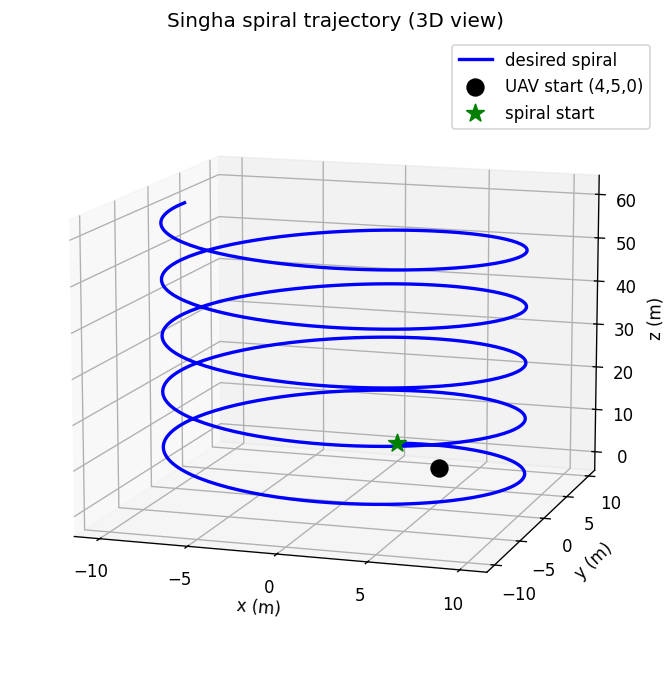
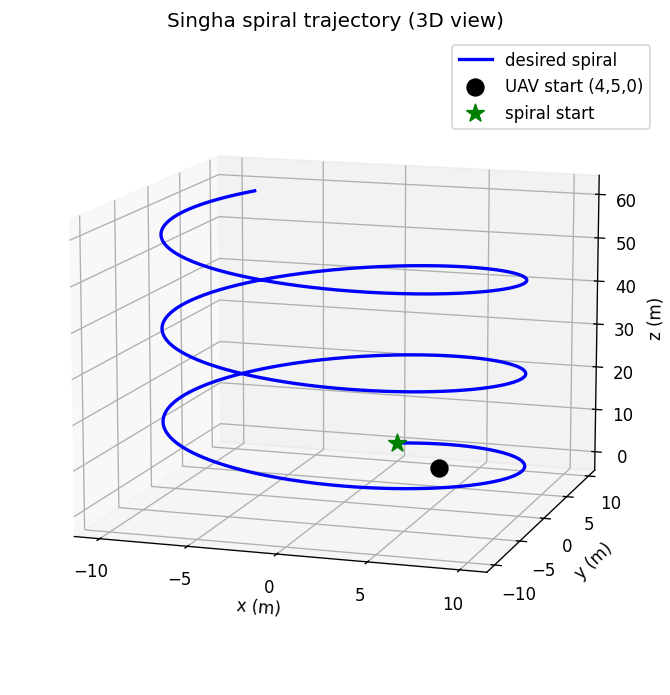
Lock the spiral flight omega=0.6 (3loops, stable), 30s, R=10

Changed region(s): [[0.2388, 0.2719, 0.806, 0.7252], [0.5373, 0.3022, 0.6269, 0.3324]]

diff --git a/scenarios/spiral/simulate_spiral.py b/scenarios/spiral/simulate_spiral.py
@@ -1,4 +1,4 @@
-"""T.2: fly Singha's circular trajectory with the full controller + feedforward."""
+"""T.2: fly Singha's Spiral trajectory with the full controller + feedforward."""
 import sys, os
 sys.path.append(os.path.dirname(os.path.dirname(os.path.dirname(os.path.abspath(__file__)))))
 
@@ -10,14 +10,14 @@ from mpl_toolkits.mplot3d import Axes3D  # noqa
 from core.generate_quadrotor_data import quadrotor_dynamics
 from core.controller import (M, G, KP_Z, KD_Z, KP_XY, KD_XY,
                              KP_ATT, KD_ATT, IX, IY, IZ, L_ARM, outer_loop)
-from circle_reference import circular_reference, yaw_reference
+from spiral_reference import spiral_reference, yaw_reference
 
 KP_YAW, KD_YAW = 2.0, 2.0
 
 
-def full_control_circle(t, x):
-    """Time-aware controller tracking the moving circle (with feedforward)."""
-    pos_d, vel_d, acc_d = circular_reference(t)     # moving target + derivatives
+def full_control_spiral(t, x):
+    """Time-aware controller tracking the moving spiral (with feedforward)."""
+    pos_d, vel_d, acc_d = spiral_reference(t)     # moving target + derivatives
     psi_d, psi_d_dot = yaw_reference(t)
 
     # --- altitude (z) with feedforward velocity ---
@@ -56,44 +56,43 @@ def outer_loop_ff(x, U1, pos_d, vel_d, psi):
 # ===== simulate =====
 
 x0 = np.zeros(12)
-# Table 5: circular trajectory initial position (0,0,4), initial angles (0.087, 0.1042, 0.209)
-x0[0], x0[1], x0[2] = 0.0, 0.0, 4.0          # start at (0,0,4) per Table 5
-x0[3], x0[4], x0[5] = 0.0, 0.0, 0.0          # at rest (drone placed, not moving)
-x0[6], x0[7], x0[8] = 0.087, 0.1042, 0.209   # Table 5 initial angles
+# Table 5: spiral trajectory initial position (4,5,0), initial angles (0.0, 0.0, 0.0)
+x0[0], x0[1], x0[2] = 4.0, 5.0, 0.0          # spiral start (4,5,0) — ground
+x0[3], x0[4], x0[5] = 0.0, 0.0, 0.0          # at rest
+x0[6], x0[7], x0[8] = 0.0, 0.0, 0.0          # zero initial angles
 
-t_end = 4*np.pi                               # ~2 full circles
+t_end = 30                              # ~2 full circles
 t_eval = np.arange(0.0, t_end, 0.01)
 
 sol = solve_ivp(
-    lambda t, x: quadrotor_dynamics(t, x, full_control_circle(t, x)),
+    lambda t, x: quadrotor_dynamics(t, x, full_control_spiral(t, x)),
     (0.0, t_end), x0, t_eval=t_eval, max_step=0.02,
 )
 x, y, z = sol.y[0], sol.y[1], sol.y[2]
 print(f"Start: ({x[0]:.2f},{y[0]:.2f},{z[0]:.2f})")
 print(f"End:   ({x[-1]:.2f},{y[-1]:.2f},{z[-1]:.2f})")
 
-# desired circle for reference
-P = np.array([circular_reference(t)[0] for t in t_eval])
+# desired spiral for reference
+P = np.array([spiral_reference(t)[0] for t in t_eval])
 
-# 3D plot: ACTUAL connected flight path + desired circle
+# 3D plot: ACTUAL connected flight path + desired spiral
 # DIAGNOSTIC: every key variable vs time
 # use the solver's ACTUAL returned times (handles early-stop safely)
 tt = sol.t
-P = np.array([circular_reference(t)[0] for t in tt])
+P = np.array([spiral_reference(t)[0] for t in tt])
 
 fig, ax = plt.subplots(2, 3, figsize=(15, 8))
 ax[0,0].plot(tt, x, 'b', label='actual'); ax[0,0].plot(tt, P[:,0], 'r--', label='desired'); ax[0,0].set_title("x"); ax[0,0].legend()
 ax[0,1].plot(tt, y, 'b'); ax[0,1].plot(tt, P[:,1], 'r--'); ax[0,1].set_title("y")
-ax[0,2].plot(tt, z, 'b'); ax[0,2].axhline(2, color='r', ls='--'); ax[0,2].set_title("z (target=2)")
+ax[0,2].plot(tt, z, 'b'); ax[0,2].plot(tt, P[:,2], 'r--'); ax[0,2].set_title("z (climbing)")
 ax[1,0].plot(tt, sol.y[6], 'g'); ax[1,0].set_title("phi (roll)")
 ax[1,1].plot(tt, sol.y[7], 'g'); ax[1,1].set_title("theta (pitch)")
-ax[1,2].plot(tt, z, 'b'); ax[1,2].axhline(2, color='r', ls='--'); ax[1,2].set_title("z (zoom)"); ax[1,2].set_xlim(0, 3)
+ax[1,2].plot(tt, sol.y[8], 'g'); ax[1,2].set_title("psi (yaw)")
 for a in ax.flat: a.grid(alpha=0.3); a.set_xlabel("t(s)")
-plt.tight_layout(); plt.savefig("docs/circle_iso_debug.png", dpi=120, bbox_inches="tight")
-print("Saved -> docs/circle_iso_debug.png")
+plt.tight_layout(); plt.savefig("docs/spiral_iso_debug.png", dpi=120, bbox_inches="tight")
+print("Saved -> docs/spiral_iso_debug.png")
 
-# also print NUMERIC symptoms at key times
-for tc in [0.0, 0.5, 1.0, 2.0]:
+for tc in [0.0, 5.0, 15.0, 29.0]:
     i = int(tc/0.01)
     if i < len(z):
         print(f"t={tc}: z={z[i]:.2f}, phi={sol.y[6][i]:.3f}, theta={sol.y[7][i]:.3f}")

diff --git a/scenarios/spiral/spiral_reference.py b/scenarios/spiral/spiral_reference.py
@@ -1,39 +1,48 @@
 """Singha spiral trajectory: x=10sin t, y=10cos t, z=2t, yaw=0.7853 (constant)."""
 import numpy as np
+
 R = 10.0          # radius (Singha)
-OMEGA = 1.0       # angular rate (raw Table 5 form; ω²R = 10 m/s² ≈ g, aggressive)
-CLIMB = 2.0       # vertical climb rate: z = CLIMB * t  (ż = 2 m/s constant)
-PSI_D = 0.7853    # constant desired yaw (π/4)
+OMEGA = 0.6      # angular rate (raw Table 5 form; ω²R = 10 m/s² ≈ g, aggressive)
+CLIMB = 2.0       # vertical climb rate : z= CLIMB * t ((ż = 2 m/s constant))
+PSI_D = 0.7853      # constant desired yaw (π/4)
+
+
 def spiral_reference(t):
     w = OMEGA
     # position
     x_d = R * np.sin(w*t)
     y_d = R * np.cos(w*t)
-    z_d = CLIMB * t                 # CHANGED: climbs instead of constant
-    # velocity
+    z_d = CLIMB * t
+    # velocity (×w)
     xdot_d =  R * w * np.cos(w*t)
     ydot_d = -R * w * np.sin(w*t)
-    zdot_d = CLIMB                  # CHANGED: constant climb rate (not 0)
-    # acceleration
+    zdot_d = CLIMB
+    # acceleration (×w²)
     xddot_d = -R * w**2 * np.sin(w*t)
     yddot_d = -R * w**2 * np.cos(w*t)
-    zddot_d = 0.0                   # constant velocity climb → zero z-accel
+    zddot_d = 0.0
     return (np.array([x_d, y_d, z_d]),
             np.array([xdot_d, ydot_d, zdot_d]),
             np.array([xddot_d, yddot_d, zddot_d]))
+
+
 def yaw_reference(t):
-    psi_d = PSI_D                   # CHANGED: constant yaw (not sinusoidal)
-    psi_d_dot = 0.0                 # CHANGED: constant yaw → zero rate
+    psi_d =PSI_D
+    psi_d_dot = 0.0
     return psi_d, psi_d_dot
+
+
 if __name__ == "__main__":
     import matplotlib.pyplot as plt
     from mpl_toolkits.mplot3d import Axes3D  # noqa
+
     # sanity check: print target at a few times
     for t in [0.0, np.pi/2, np.pi, 3*np.pi/2]:
         pos, vel, acc = spiral_reference(t)
         psi, _ = yaw_reference(t)
         print(f"t={t:.2f}:  pos={np.round(pos,2)}  vel={np.round(vel,2)}  yaw={psi:.3f}")
-    # plot the spiral in 3D
+
+    # plot the spiral in 3D (so it looks 3D, as you wanted)
     T = 30.0                                   # CHANGED: 30 s flight (~4.8 loops)
     ts = np.linspace(0, T, 800)
     P = np.array([spiral_reference(t)[0] for t in ts])
